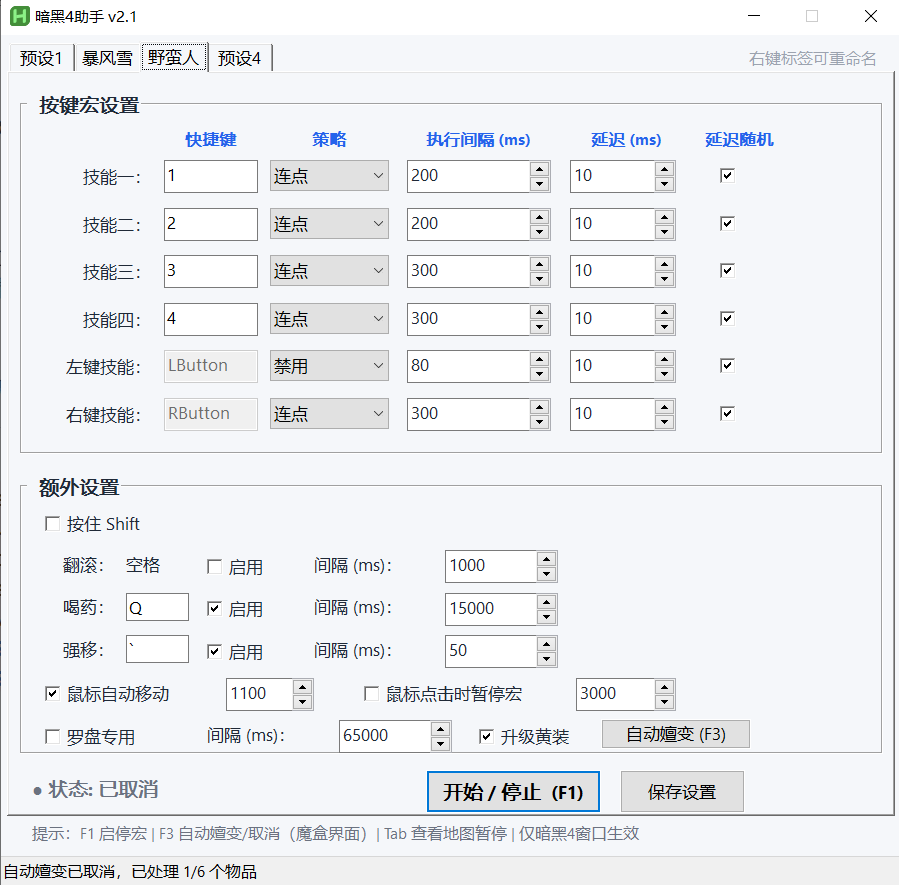
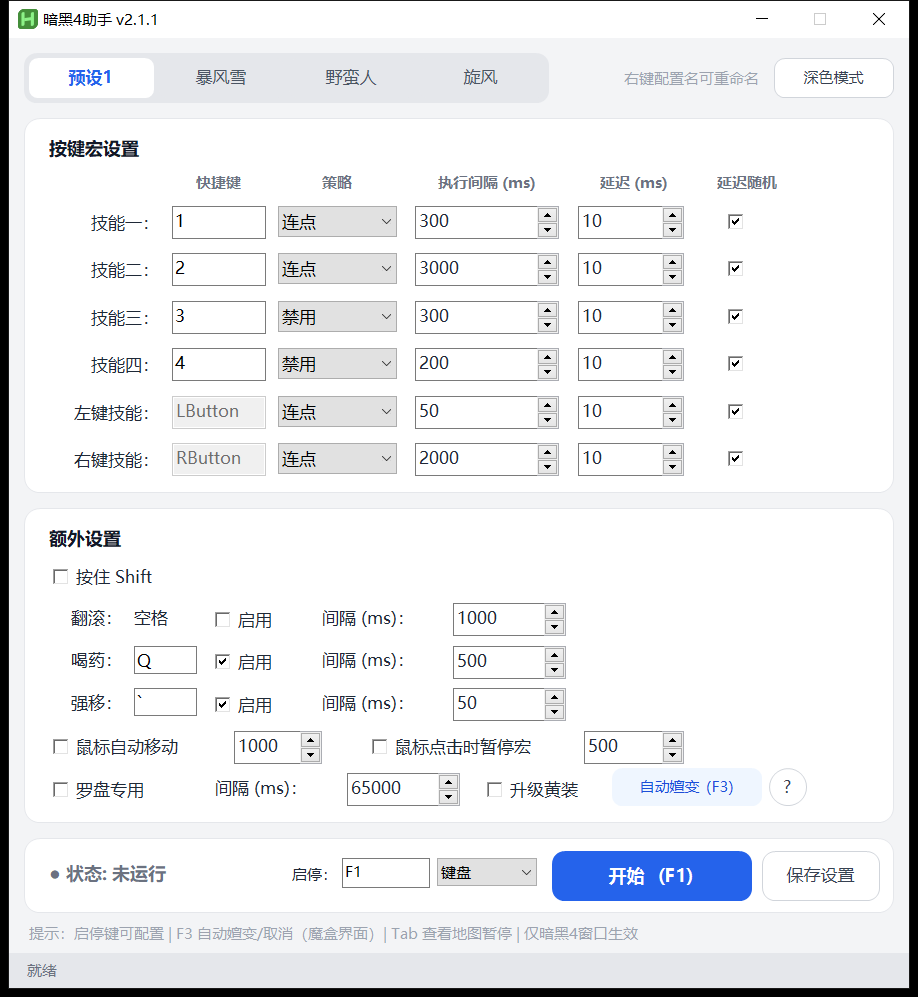
docs: update README screenshots for modern light/dark UI

diff --git a/README.md b/README.md
@@ -3,7 +3,11 @@
 
 D4KeyHelp是一个有图形界面，可自定义配置的暗黑4鼠标宏工具。
 
-![mainPage](mainPage.png)
+| 浅色模式 | 深色模式 |
+| :---: | :---: |
+| ![mainPage](mainPage.png) | ![mainPage-dark](mainPage-dark.png) |
+
+界面右上角可切换浅色/深色模式，运行中开始按钮会变为红色的“停止”。
 
 运行代码请使用最新版的AHK v2.0软件!并非常见的V1.3的版本,你也可以直接在 [Releases](https://github.com/duzefu/D4keyHelp/releases) 处下载 `D4keyHelp.exe` 而不安装 AHK。
 
